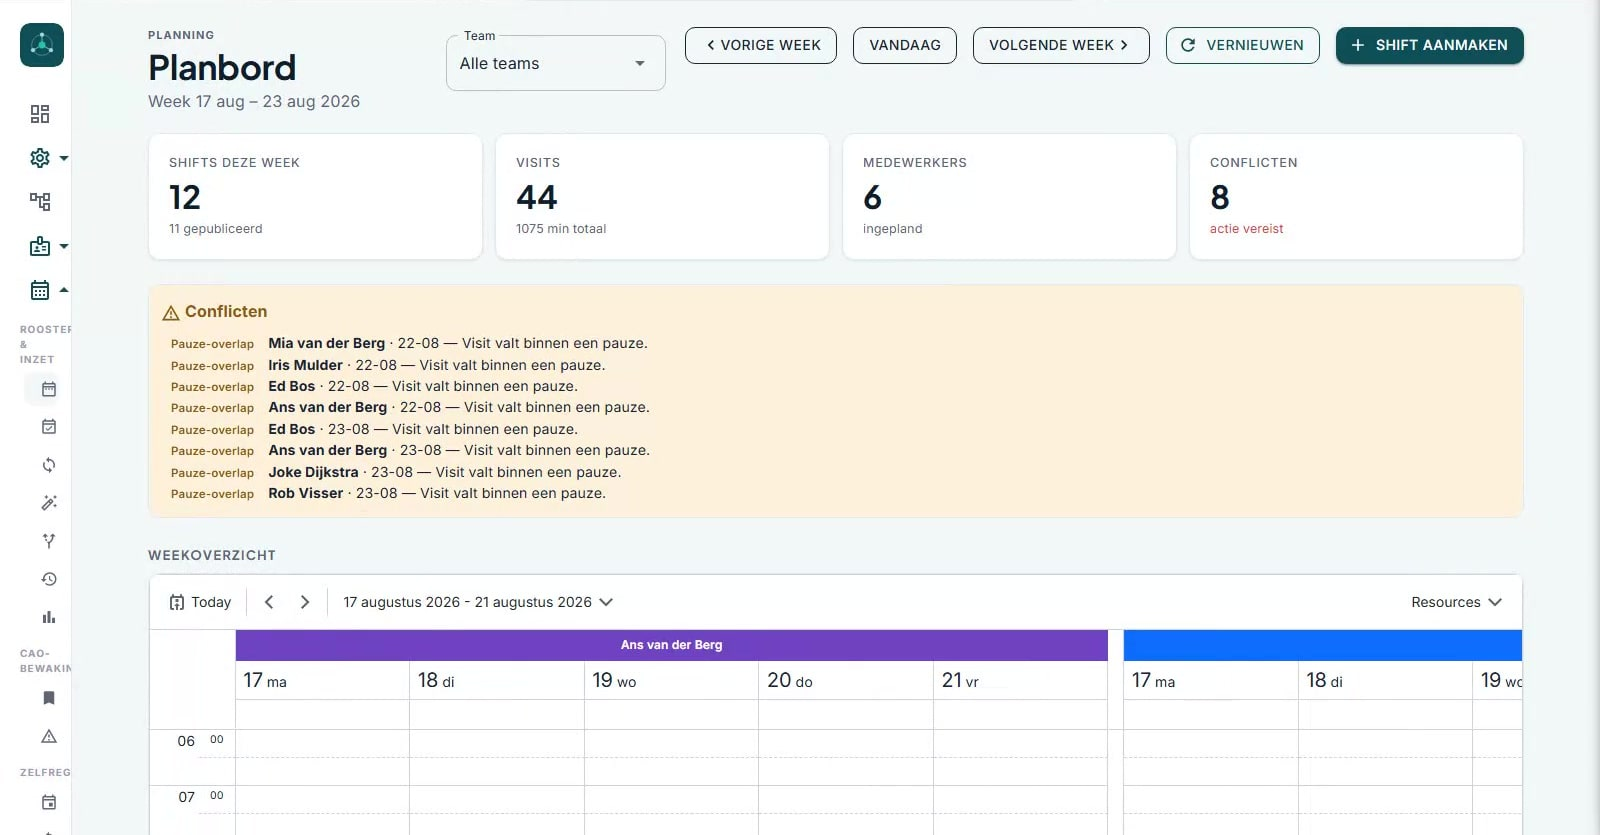
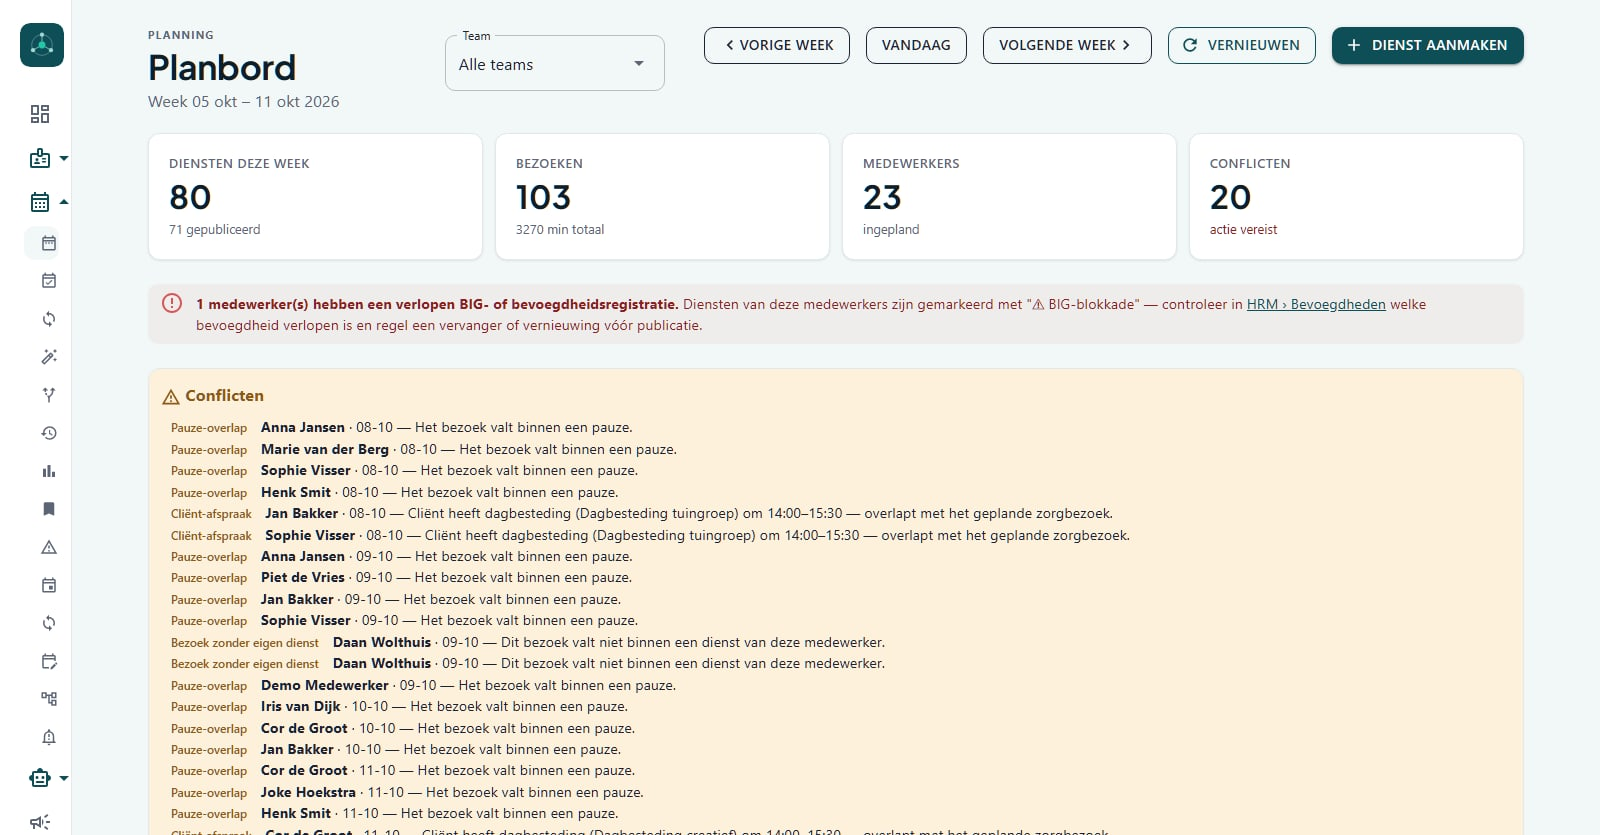
content: verse schermopnames van 08-10-2026; Wmo/Jw-declaratie weer correct
- Schermen opnieuw opgenomen op een eigen lokale Curanta (Ponscura develop, eigen databank
  Curanta_SiteOpname, poorten 7101–7103): zorgplan, planbord, productie, VIM, medewerkerportaal en
  cliëntportaal vervangen; nieuw: signaleringsplan, verblijf, Wzd, kraamdossier, jeugddossier
  (op /voor/ghz, /voor/kraamzorg, /voor/jeugdzorg, /voor/vvt en /oplossing). Label nu
  'Schermafbeelding met demogegevens'.
- Teruggedraaid: de Wmo323 en Jw323 zijn wél op te stellen (knop 'Declaratie opstellen' op iWmo- en
  iJw-berichten, IwmoDeclaratieOpstellenDialog, IjwDeclaratieOpsteller, tests). De eerdere correctie
  steunde op verouderde helpteksten; Basic weer '1 declaratiemodule (Wmo, Jeugdwet óf Wlz)'.
- Docs: beeldbronnen, controlelijst en feitenbladvoorstel bijgewerkt.

diff --git a/docs/feitenblad-voorstel-2026-10-08.md b/docs/feitenblad-voorstel-2026-10-08.md
@@ -12,7 +12,7 @@ bevestiging)" is in een ADR, staat er met **[ADR ter bevestiging]** bij.
 
 | Rij | Nu in het feitenblad | Voorstel | Bron |
 |---|---|---|---|
-| Koppelingen gebouwd | "iWmo/iJw/iWlz en CAK via Vecozo" | iWlz en CAK: gebouwd (aansluiting per klant). **iWmo en iJw: toewijzingen en start/stop-berichten gebouwd; de maanddeclaratie (Wmo323, Jw323) heeft nog geen scherm.** Zeg niet "declareren onder de Wmo of de Jeugdwet". | [code: docs/help/declaratie/iwmo.md:40, ijw.md:41; Productie.razor:552 — "Indienen" zet regels in de goedkeuringswachtrij van de coördinator] |
+| Koppelingen gebouwd | "iWmo/iJw/iWlz en CAK via Vecozo" | **Klopt.** Aanvullen: de maanddeclaratie (Wmo323, Jw323) stelt de administratie op met **Declaratie opstellen** op het scherm iWmo- of iJw-berichten, uit goedgekeurde productie; verzenden vraagt het Vecozo-certificaat. ⚠ De helpteksten `iwmo.md:40` en `ijw.md:41` zeiden dat er geen scherm was; die zijn gecorrigeerd op de Ponscura-branch `docs/helpteksten-2026-10-08`. | [code: IwmoBerichten.razor:42, IjwBerichten.razor:42; IwmoDeclaratieOpstellenDialog.razor; IwmoModule.cs:36; IjwDeclaratieOpsteller.cs; tests/Ponscura.Declaratie.Iwmo.Tests/IwmoDeclaratieOpstellerTests.cs] |
 | Wzd-uitdraai | Wzd/Wvggz "XML-uitdraai, nog niet gevalideerd tegen de specificatie van de IGJ" (site) | Het halfjaarlijkse overzicht volgt de XSD van de IGJ ("Wzd 2026") en elk bestand wordt ertegen gevalideerd. Curanta verstuurt niets (aanleveren via Mijn IGJ); een echte aanlevering is er nog niet. Vestigingsnummers per klant in te richten. Niet: "door de IGJ getoetst". | [code: 1709e5dad; IgJWzdExportService.cs:144, :556; Infrastructure/Igj/Wzd-IGJ-2026.xsd; ADR 2026-10-07-igj-uitdraai-wzd] |
 | Kraamzorg | "overdracht naar JGZ — weggelaten (alleen een Omaha-interventie)" (campagne-README) | Overdracht aan de JGZ is nu een registratie in het kraamdossier (toestemming en wijze); geen digitaal transport. | [code: 4e1b70705; ADR 2026-10-05-kraamweekregistratie :89-91, :112] |
 | Wtta (wet) | "raadpleegbaar vanaf 1-7-2027" | Aanvullen: de wet geldt vanaf 1-1-2027, 2027 is een overgangsjaar; pas vanaf 1-1-2028 alleen inlenen van toegelaten uitleners. | toelatinguitleenmarkt.nl/inleners (08-10-2026) |
@@ -56,6 +56,6 @@ bevestiging)" is in een ADR, staat er met **[ADR ter bevestiging]** bij.
 
 1. **Demo-uitrol.** De laatste uitrol naar app.curanta.nl is van 30-09 (2bf1e6cb2). Alles hierboven met "in de demo" staat pas in de openbare demo na een nieuwe uitrol en een nieuwe gouden toestand. Doe die uitrol vóór deze site live gaat, of laat de statussen op de site aanpassen.
 2. **Plannen.** `Subscriptions:Enabled` staat uit, dus elke klant krijgt nu alles. De meeste nieuwe functies zijn commercieel nog niet ingedeeld ("Nog niet commercieel ingedeeld" in `SubscriptionPlanCatalog.cs`). De site noemt ze daarom zonder plan; /prijzen is ongewijzigd (besluit Jan 08-10).
-3. **Basic (opgelost 08-10):** "1 declaratiemodule (Wmo, Jeugdwet óf Wlz)" is aangevuld; zie /prijzen. Zolang de maanddeclaratie voor de Wmo en de Jeugdwet geen scherm heeft, is alleen de Wlz-keuze echt bruikbaar. Moet de planregel op /prijzen en op de homepage mee?
+3. **Basic** — geen wijziging nodig: "1 declaratiemodule (Wmo, Jeugdwet óf Wlz)" klopt. Een eerdere aanpassing op 08-10 berustte op een verouderde helptekst en is teruggedraaid.
 4. **ADR's ter bevestiging.** Bank, kosten, cliëntbetalingen, vragenlijsten en de nota staan in hun ADR nog op "voorgesteld (ter bevestiging)". Bevestig ze, of laat de site die onderdelen voorzichtiger noemen.
 5. **Helpteksten in de app (gecorrigeerd op Ponscura-branch docs/helpteksten-2026-10-08, 8c9b7c74a).** Deze zijn verouderd: `ggz-zpm.md:145-146` (crediteren kan nu wel), `cak.md:28-30` ("automatisch" verwerkt klopt niet) en `kraamzorg.md:152` (iWmo-link bij kraamzorg). En `verwerkingsregister.md:2160` noemt RCI voor SQ-48 en 4DKL.

diff --git a/docs/controlelijst-claims.md b/docs/controlelijst-claims.md
@@ -94,7 +94,7 @@ Opnieuw nagelopen in publieke bronnen; elke cel op /vergelijking heeft nu een UR
 | E1 | Het scherm Planhulp heet "Planning - AI assistentie", maar Planhulp gebruikt geen taalmodel (feitenblad: "geen AI"). | `Curanta.Host/.../Planhulp.razor:20` |
 | E2 | Het cliëntportaal laat niet zien dat een samenvatting met AI is opgesteld; de backoffice wel. Overweeg een vermelding voor de cliënt. | `Curanta.Portaal/Components/Pages/Zorgplan.razor:131-142` |
 | E3 | De retourberichtenpagina toont "Beschikbaar vanaf 01-12-2026": een datumbelofte in de app. | `IwmoBerichten.razor:80-91` |
-| E4 | De schermafbeeldingen op de site komen uit `docs/campagne/materiaal/schermen` (opgenomen in september 2026). Sindsdien is de interface op veel punten gewijzigd: demobanner, dossier, zorgplan, planbord en dienstdetail. Maak bo-zorgplan, bo-planbord, bo-productie, bo-vim, mw-soep/mw-bezoek/mw-rooster en pc-zorgplan/pc-samenzorgen opnieuw, met de skill `instructievideo` (hosts 7080/7230/7081). Vervang daarna de bestanden in `src/assets/schermen/`; de bijschriften noemen "Opname september 2026". | — |
+| E4 | ✅ Opgelost 08-10: verse opnames (zie beeldbronnen.md). Eerder: de schermafbeeldingen op de site kwamen uit `docs/campagne/materiaal/schermen` (opgenomen in september 2026). Sindsdien is de interface op veel punten gewijzigd: demobanner, dossier, zorgplan, planbord en dienstdetail. Maak bo-zorgplan, bo-planbord, bo-productie, bo-vim, mw-soep/mw-bezoek/mw-rooster en pc-zorgplan/pc-samenzorgen opnieuw, met de skill `instructievideo` (hosts 7080/7230/7081). Vervang daarna de bestanden in `src/assets/schermen/`; de bijschriften noemen "Opname september 2026". | — |
 | E5 | Het planbord toont Engelse woorden: "Shifts deze week", "Visits", "Today", "Resources". | Planbord |
 | E6 | Het feitenblad aanvullen: Wtta-overgangsjaar (D2), controledatum vergelijking (A4), open diensten zonder goedkeuring (C), WPM-voornemen (D7). | feitenblad |
 
@@ -119,8 +119,10 @@ met de bron in de code per rij. Belangrijkste punten:
 - **Vóór livegang: Curanta naar de demo uitrollen.** De openbare demo is van 30-09. Signaleringsplan, verblijf,
   logeren, Wzd 2025, GGZ-afscherming, kraam- en jeugddossier en "Vandaag" staan op de site als "te zien in de
   demo"; dat klopt pas na een nieuwe uitrol en gouden toestand.
-- **Gecorrigeerd:** de maanddeclaratie onder de Wmo en de Jeugdwet (Wmo323, Jw323) heeft nog geen scherm. De
-  site zei "declareren onder de Wmo" en "dient in bij gemeente"; nu staat dat als in ontwikkeling.
-- **Aangepast (besluit Jan 08-10):** planregel Basic op /prijzen en de homepage: "1 declaratiemodule: Wlz; Wmo of
-  Jeugdwet zodra de maanddeclaratie klaar is". Prijs en plan ongewijzigd.
+- **Teruggedraaid (08-10):** een correctie die zei dat de maanddeclaratie onder Wmo en Jeugdwet geen scherm had,
+  was onjuist: die bewering kwam uit verouderde helpteksten (iwmo.md:40, ijw.md:41). De knop **Declaratie opstellen**
+  op iWmo- en iJw-berichten stelt de Wmo323/Jw323 op uit goedgekeurde productie. De site zegt weer dat u onder
+  Wmo, Jeugdwet en Wlz declareert; versturen vraagt het Vecozo-certificaat.
+- **Planregel Basic:** ongewijzigd "1 declaratiemodule (Wmo, Jeugdwet óf Wlz)"; de aanpassing van 08-10 is teruggedraaid
+  omdat de aanleiding (geen Wmo-declaratiescherm) niet klopte.
 - **Gecorrigeerd:** het Wzd-overzicht wordt nu gevalideerd tegen de XSD van de IGJ (was "niet getoetst").

diff --git a/docs/beeldbronnen.md b/docs/beeldbronnen.md
@@ -4,25 +4,33 @@ Bijgehouden zodat bij elke afbeelding vaststaat waar hij vandaan komt en onder w
 
 ## Schermafbeeldingen (`src/assets/schermen/`)
 
-Echte schermen uit de demo-omgeving van Curanta, met verzonnen gegevens. Bron:
-`D:\Repos\Ponscura\docs\campagne\materiaal\schermen\` (frames uit de instructievideo's, september 2026).
-Bijgesneden met sharp (de appbalk van 65 px eraf bij de backoffice-schermen), verder onbewerkt.
+Echte schermen uit Curanta met de verzonnen demodata, **opgenomen op 8 oktober 2026** op een eigen lokale
+installatie: Ponscura `develop` (werkmap `D:\Repos\Ponscura-whelp`), eigen databank `Curanta_SiteOpname`,
+eigen poorten 7101 (backoffice), 7102 (medewerkerportaal) en 7103 (cliëntportaal), met de gewone demoseed.
+Geen gedeelde host of databank gebruikt. Opnamescripts: `opname.mjs` en `opname-portalen.mjs` (kladmap van de
+sessie; op verzoek naar `scripts/` te verplaatsen). Backoffice 1600 × 900, appbalk (65 px) eraf; portalen
+1280 × 800, onbewerkt.
 
-| Bestand | Bron | Bewerking |
+| Bestand | Scherm | Account |
 |---|---|---|
-| bo-zorgplan.jpg | bo-zorgplan-t75.jpg | bovenste 92 px weg |
-| bo-planbord.jpg | bo-planbord.jpg | appbalk weg |
-| bo-productie.jpg | bo-productie.jpg | appbalk weg |
-| bo-vim.jpg | bo-vim.jpg | appbalk weg |
-| mw-rapportage.jpg | mw-soep-t40.jpg | geen |
-| mw-rooster.jpg | mw-rooster.jpg | geen |
-| mw-bezoek.jpg | mw-bezoek.jpg | geen |
-| pc-zorgplan.jpg | pc-zorgplan.jpg | geen |
-| pc-start.jpg | pc-samenzorgen.jpg | geen |
+| bo-zorgplan.jpg | /ecd/zorgplan, Anna de Vries, doorgescrold naar problemen en SMART-doelen | medewerker2@ |
+| bo-planbord.jpg | /planning/planbord | planner@ |
+| bo-productie.jpg | /declaratie/productie | admin@ |
+| bo-vim.jpg | /vim | admin@ |
+| bo-signaleringsplan.jpg | /ecd/signaleringsplan, Ruben Hendriks | begeleider@ |
+| bo-verblijf.jpg | /ecd/verblijf | admin@ |
+| bo-wzd.jpg | /compliance/wzd | admin@ |
+| bo-kraamzorg.jpg | /segmenten/kraamzorg, Lotte Veenstra, tab Controles | kraamzorg@ |
+| bo-jeugdzorg.jpg | /segmenten/jeugdzorg, Demi de Vries | admin@ |
+| mw-rooster.jpg, mw-bezoek.jpg, mw-rapportage.jpg | medewerkerportaal: rooster, dienstdetail, rapportage | medewerker1@ |
+| pc-start.jpg, pc-zorgplan.jpg | cliëntportaal: start en Mijn zorgplan | klant1@ |
 
-Op de site staan ze in de component `Screenshot`, met het bijschrift "Schermafbeelding uit de demo,
-verzonnen gegevens". Een voorbeeldweergave (mockup) krijgt het bijschrift "Voorbeeldweergave, geen
-productscherm" (`soort="voorbeeld"`). Op dit moment gebruikt de site er geen.
+De openbare demo (app.curanta.nl) loopt achter op deze stand tot de volgende uitrol; zie de harde voorwaarde
+in `controlelijst-claims.md`.
+
+Op de site staan ze in de component `Screenshot`, met het bijschrift "Schermafbeelding met demogegevens,
+verzonnen cliënten". Een voorbeeldweergave (mockup) krijgt "Voorbeeldweergave, geen productscherm"
+(`soort="voorbeeld"`); de site gebruikt er nu geen.
 
 ## Foto's (`src/assets/fotos/`)
 
